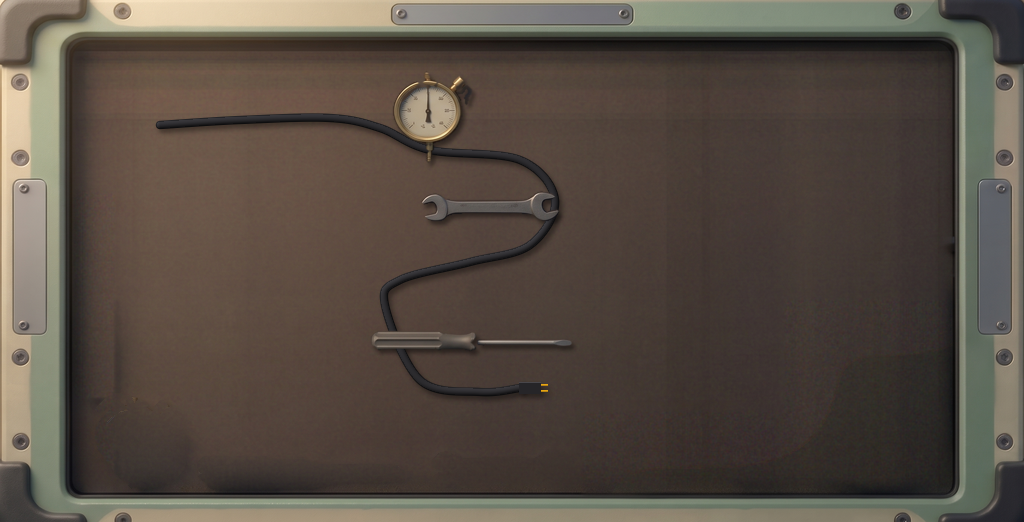
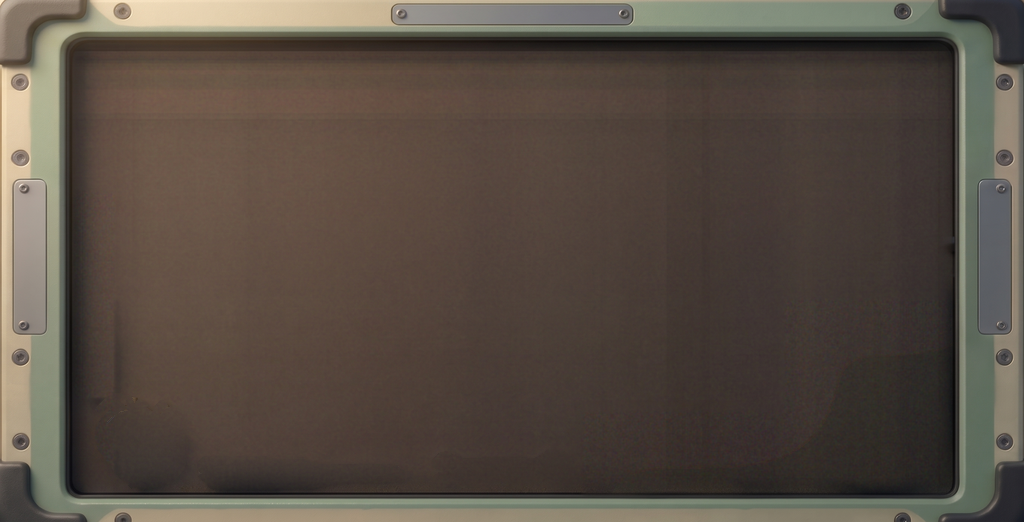
Probe bench masters: the field tools and cable lifted (PA2's own clean stage), the plates and strips at 48 (T-20261016-33)

Changed region(s): [[0.3438, 0.3372, 0.5625, 0.7663], [0.1562, 0.1533, 0.5312, 0.3372]]

diff --git a/art/station-masters/pods/bench/plates-48/make-plates-48.py b/art/station-masters/pods/bench/plates-48/make-plates-48.py
@@ -1,0 +1,71 @@
+"""T-20261016-33 (specs/station-probe-purpose.md §4, work-queue): bench-plate-whole-48x48 and bench-plate-gone-48x48, the signed 32 px plates
+redrawn at 48, not scaled up. By hand in code, no paid call.
+- The silhouette: the 32's alpha, smoothed (bicubic to 12x, a 0.35 px blur at 32, threshold 0.4 (the 32's ink at alpha >= 128)), so each outline is a clean curve; drawn on an 8x
+  supersampled 48 grid and box-reduced, so the edge is anti-aliased at 48's own pixel, not a resampled 32 pixel. The ink grows 1.5x (whole 30x32 ->
+  45x48 in the 48 box), centred as in the 32.
+- The tones are the 32's own, measured (median over each region): whole body (185, 186, 180), its lit top-right edge (216, 217, 210), its shaded
+  left and bottom edges (150, 151, 145) to (96, 97, 92), a soft shade outside down-right (the 32's translucent ring, ground (24, 25, 24) at <= 40 %);
+  gone floor (88, 90, 76), its top and left walls in shade (34, 36, 31), its bottom and right lip lit (122, 124, 104), a dark outline outside
+  (12, 12, 12) at 50 %, the screw hole (46, 48, 48) with a lit lip below right.
+- Rims are drawn at 48's own widths (the whole plate's bevel 1.5 px, the seat's walls 2 px and lip 1 px): crisp, not 1.5x-blurred.
+- Light from the top left, matte (the whole plate's edges keep the 32 painting's own measured edge light, see whole()); nothing added (no screws, marks or gloss the 32s do not have).
+usage: python3 -I make-plates-48.py SLICES_DIR   (reads the two 32s, writes the two 48s into SLICES_DIR)"""
+import sys, os, numpy as np
+from PIL import Image
+from scipy import ndimage as nd
+D = sys.argv[1]; N, SS = 48, 8; G = N * SS                                   # 48 px, 8x supersampled
+def lin(c): c = np.asarray(c, float) / 255; return np.where(c <= .04045, c / 12.92, ((c + .055) / 1.055) ** 2.4)
+def srgb(l): l = np.clip(l, 0, 1); return np.where(l <= .0031308, l * 12.92, 1.055 * l ** (1 / 2.4) - .055) * 255
+def silhouette(name):
+    """the 32's alpha as a smooth curve on the 384 grid (the 48 at 8x): the ink scales 1.5x about the box centre"""
+    a = np.asarray(Image.open(os.path.join(D, name + ".png")).convert("RGBA"))[..., 3].astype(float) / 255
+    a = nd.gaussian_filter(a, 0.35)
+    yy, xx = (np.mgrid[0:G, 0:G] + .5) / G * 32 - .5                     # each 384-grid point in 32-px coordinates
+    return nd.map_coordinates(a, [yy, xx], order=3, mode="constant") > 0.4
+dn = lambda img: img.reshape(N, SS, N, SS, *img.shape[2:]).mean((1, 3))
+L = np.array([-0.55, -0.62, 0.56]); L /= np.linalg.norm(L)
+
+def whole():
+    m = silhouette("bench-plate-whole-32x32")
+    d = nd.distance_transform_edt(m) / SS                                   # px at 48, inside
+    h = np.clip(d / 1.5, 0, 1); h = np.sin(h * np.pi / 2)                  # the plate's 1.5 px rounded bevel
+    gy, gx = np.gradient(nd.gaussian_filter(h, SS * .3)); gx *= SS; gy *= SS
+    n = np.dstack([-gx, -gy, np.ones_like(gx)]); n /= np.linalg.norm(n, axis=2, keepdims=True)
+    LW = np.array([-0.1, -0.8, 0.6]); LW /= np.linalg.norm(LW)               # the 32's own edge light, measured: top and top-right edges lit (213-221),
+    lam = np.clip(n @ LW, 0, 1) / LW[2]                                     # the left edge half (144-178), the bottom dark (86-150); 1 on the flat face
+    body = lin([185, 186, 180]); lit = lin([216, 217, 210]); dark = lin([96, 97, 92])
+    col = np.where((lam >= 1)[..., None], body + (lit - body) * np.clip((lam - 1) / 0.2, 0, 1)[..., None],
+                   dark + (body - dark) * np.clip(lam, 0, 1)[..., None])
+    a = dn(m.astype(float)); c = dn(col * m[..., None]) / np.maximum(a, 1e-6)[..., None]
+    sh = nd.gaussian_filter(nd.shift(m.astype(float), (1.5 * SS, 1.0 * SS), order=0), SS * 0.9)   # the soft shade down-right
+    sa = dn(sh) * 0.40 * (1 - a)
+    return compose(c, a, lin([24, 25, 24]), sa)
+
+def gone():
+    m = silhouette("bench-plate-gone-32x32")
+    yy, xx = (np.mgrid[0:G, 0:G] + .5) / SS
+    def sh(dy, dx): return nd.shift(m, (dy * SS, dx * SS), order=0, cval=False)
+    top_left_wall = m & ~(sh(1, 1) & sh(2, 2))                              # 2 px: the mask minus itself shifted down-right by 1 and 2
+    lip = m & ~sh(-1, -1)                                                   # 1 px: minus itself shifted up-left by 1
+    floor, wall, lipc = lin([88, 90, 76]), lin([34, 36, 31]), lin([122, 124, 104])
+    col = np.broadcast_to(floor, (G, G, 3)).copy()
+    col[lip] = lipc; col[top_left_wall] = wall                              # where they meet, the shadow wins (as the strips' notes)
+    hx, hy = 23.25, 25.5                                                    # the screw hole: the 32's (15.5, 17) x 1.5
+    r = np.hypot(xx - hx, yy - hy)
+    hole_lip = (r <= 2.6) & (r > 1.9) & ((xx - hx) + (yy - hy) > 0.8)
+    col[(r <= 2.0) & m] = lin([46, 48, 48]); col[hole_lip & m] = lin([98, 100, 85])
+    a = dn(m.astype(float)); c = dn(col * m[..., None]) / np.maximum(a, 1e-6)[..., None]
+    ring = nd.binary_dilation(m, iterations=SS) & ~m                         # the dark outline outside, 1 px
+    oa = dn(ring.astype(float)) * 0.50 * (1 - a)
+    return compose(c, a, lin([12, 12, 12]), oa)
+
+def compose(c, a, under, ua):
+    """the plate (premultiplied colour c, coverage a) over its shade or outline (colour under, alpha ua), into straight RGBA"""
+    A = a + ua * (1 - a); C = (c * a[..., None] + under * (ua * (1 - a))[..., None]) / np.maximum(A, 1e-6)[..., None]
+    out = np.dstack([srgb(C), A * 255]); out[A <= 0] = 0
+    return np.clip(np.rint(out), 0, 255).astype(np.uint8)
+
+for name, f in (("bench-plate-whole-48x48", whole), ("bench-plate-gone-48x48", gone)):
+    img = f(); Image.fromarray(img, "RGBA").save(os.path.join(D, name + ".png"))
+    op = img[..., 3] >= 128; ys, xs = np.nonzero(op)
+    print(name, "ink", xs.max() - xs.min() + 1, "x", ys.max() - ys.min() + 1, "at", (xs.min(), ys.min()))

diff --git a/art/station-masters/pods/bench/plates-48/make-plate-strips-48.py b/art/station-masters/pods/bench/plates-48/make-plate-strips-48.py
@@ -1,0 +1,50 @@
+"""T-20261016-33 (specs/station-probe-purpose.md §4, work-queue): bench-plate-strip-t1-176x64 (three recesses) and bench-plate-strip-t2-232x64
+(four), the PA1 strips (bench/make-plate-strips.py, bench/plate-strip-notes.md) at the new size, built the same way. By hand in code, no paid call.
+- Foam: the flat inside of bench-cradle-empty-480x288, crop (106, 122, 232, 61) (Rec.709 luma mean 55.3, std 0.31: the PA1 crop's foam, which
+  is too small for 232 x 61); x 0-175 for t1, all of it for t2. Not tiled, mirrored or stretched.
+- Recess shape: the alpha of bench-plate-gone-48x48 at 128, at (8 + 56 k, 8).
+- As the PA1 notes, in linear light per channel, rounded ties-to-even: body rows 0-60, corner radius 3; row 0 and column 0 x1.30, the last row and
+  column x0.60; in each recess the floor x0.60, the 2 px top and left walls x0.35, the 1 px bottom and right lip x1.35 (the shadow band wins where
+  they meet); the baked contact shadow in rows 61-63 from x 3, ground #1d232b at 45, 30 and 15 %. Nothing else: matte, no label or texture.
+usage: python3 -I make-plate-strips-48.py SLICES_DIR"""
+import sys, os
+import numpy as np
+from PIL import Image
+D = sys.argv[1]; ld = lambda n: np.asarray(Image.open(os.path.join(D, n + ".png")).convert("RGBA"))
+def to_lin(c): c = c / 255.0; return np.where(c <= .04045, c / 12.92, ((c + .055) / 1.055) ** 2.4)
+def to_srgb(l): l = np.clip(l, 0, 1); return np.rint(255 * np.where(l <= .0031308, l * 12.92, 1.055 * l ** (1 / 2.4) - .055)).astype(np.uint8)
+def mul(px, k): return to_srgb(to_lin(px.astype(float)) * k)
+BH, P, PITCH = 61, 48, 56                                                   # body rows, plate size, pitch
+foam_all = ld("bench-cradle-empty-480x288")[122:122 + BH, 106:106 + 232, :3]
+mask = ld("bench-plate-gone-48x48")[..., 3] >= 128
+def shift(m, dy, dx):
+    o = np.zeros_like(m)
+    o[max(dy, 0):m.shape[0] + min(dy, 0), max(dx, 0):m.shape[1] + min(dx, 0)] = m[max(-dy, 0):m.shape[0] + min(-dy, 0), max(-dx, 0):m.shape[1] + min(-dx, 0)]
+    return o
+shadow_band = mask & (~shift(mask, 1, 1) | ~shift(mask, 2, 2))
+light_band = mask & ~shift(mask, -1, -1)
+floor = mask & ~shadow_band & ~light_band
+def strip(w, n):
+    out = np.zeros((BH + 3, w, 4), np.uint8); out[:BH, :, :3] = foam_all[:, :w]; out[:BH, :, 3] = 255
+    rr = np.ones((BH, w), bool)
+    for cy, cx, ys, xs in ((3, 3, slice(0, 3), slice(0, 3)), (3, w - 3, slice(0, 3), slice(w - 3, w)),
+                           (BH - 3, 3, slice(BH - 3, BH), slice(0, 3)), (BH - 3, w - 3, slice(BH - 3, BH), slice(w - 3, w))):
+        yy, xx = np.mgrid[ys, xs]; rr[ys, xs] = np.hypot(xx + .5 - cx, yy + .5 - cy) <= 3
+    k = np.ones((BH, w)); k[0, :] *= 1.30; k[:, 0] *= 1.30; k[BH - 1, :] *= 0.60; k[:, w - 1] *= 0.60
+    out[:BH, :, :3] = mul(out[:BH, :, :3], k[..., None])
+    for i in range(n):
+        x0, y0 = 8 + PITCH * i, 8; sub = out[y0:y0 + P, x0:x0 + P, :3]
+        for m_, kk in ((floor, .60), (shadow_band, .35), (light_band, 1.35)): sub[m_] = mul(sub[m_], kk)
+    out[:BH, :, 3] = np.where(rr, 255, 0); out[:BH, :, :3][~rr] = 0
+    for row, pct in ((BH, .45), (BH + 1, .30), (BH + 2, .15)):
+        out[row, 3:, :3] = (0x1d, 0x23, 0x2b); out[row, 3:, 3] = int(np.rint(255 * pct))
+    return out
+for name, w, n in (("bench-plate-strip-t1-176x64", 176, 3), ("bench-plate-strip-t2-232x64", 232, 4)):
+    a = strip(w, n); assert a.shape[:2] == (64, w)
+    assert set(np.unique(a[:BH, :, 3])) <= {0, 255} and set(np.unique(a[BH:, 3:, 3])) == {115, 76, 38}
+    ys, xs = np.nonzero(mask)
+    for i in range(n):                                                      # each recess sits exactly where the mask says
+        ch = (a[8:8 + P, 8 + PITCH * i:8 + PITCH * i + P, :3] != foam_all[8:8 + P, 8 + PITCH * i:8 + PITCH * i + P]).any(-1)
+        y2, x2 = np.nonzero(ch); assert (y2.min(), y2.max(), x2.min(), x2.max()) == (ys.min(), ys.max(), xs.min(), xs.max()), (name, i)
+    assert 8 + PITCH * (n - 1) + P + 8 == w, name                          # 8 px margins both sides
+    Image.fromarray(a, "RGBA").save(os.path.join(D, name + ".png")); print(name, "ok")

diff --git a/art/station-masters/pods/bench/README.md b/art/station-masters/pods/bench/README.md
@@ -67,3 +67,21 @@ y 440, the switch icons at [152,68] and the slot's plate icons at [200,112]. `sl
 - **Readability at recess 0, 1x (luma 0-255, Rec.709):** the recess floor 42.2. The whole plate (p50 185.1) is +142.9 above it, WCAG contrast 7.3:1: it reads as a whole white plate. The gone plate's lit rim (p95 118.1) is +75.9 above it, 3.15:1: it reads as an outline.
 - **Readings to confirm:** where two listed rules meet on one pixel they apply in the notes' order: the edge's top-right and bottom-left pixels take both multipliers (1.30 then 0.60 or 0.60 then 1.30), and a wall thin enough to be in both bands takes the shadow band. The corner radius 3 clears the one corner pixel whose centre lies outside the circle. Rounding is ties-to-even throughout, the shadow alphas 115, 76 and 38.
 - **A layout fact:** the stage's painted screwdriver ends at about x 265, so t2 (placed from x 240) covers its tip; t1 starts where it ends.
+
+## T-20261016-33: the field tools lifted, the plates and strips at 48 (signed)
+
+The Probe bench's purpose (`specs/station-probe-purpose.md`, work-queue): the player gets the Probe ready for the next trip, and the plates are how many strikes it can take, the second read. The gauge, wrench, screwdriver and cable had no job, so they go. The plates move into the middle column at 48. Nothing new is painted.
+
+| Id | Size | How |
+| --- | --- | --- |
+| `room-bench-stage-probe` | 1024×522 | PA2's own `stage-clean` (`stage-pa2/lift-tools.py` on the pre-PA2 stage, `git show c9261a63^:…/slices/room-bench-stage-probe.png`). Proven exact: `compose-zone.py` over it rebuilds the PA2 stage with 0 pixels differing. The 28,869 changed pixels are the old tools zone, the cable's run and their shadows only |
+| `bench-plate-whole-48x48` | 48×48 | `plates-48/make-plates-48.py`: the signed 32 redrawn at 48 (its silhouette as a smooth curve on an 8× grid, its own measured tones, rims at 48's own widths), not scaled up |
+| `bench-plate-gone-48x48` | 48×48 | the same, the empty seat with its screw hole |
+| `bench-plate-strip-t1-176x64` | 176×64 | `plates-48/make-plate-strips-48.py`: PA1's construction (`plate-strip-notes.md`) at the new size; recesses at (8 + 56k, 8) from the gone-48 mask; foam crop (106, 122, 232, 61) of the cradle, luma 55.3, std 0.31 |
+| `bench-plate-strip-t2-232x64` | 232×64 | the same, four recesses |
+
+The 32 px plates and the 144/192 strips are retired from the bench only (they stay in this folder). `icon-shield-16` is Cargo's and is untouched.
+
+Proofs (`plates-48/proof/`): `before-after-middle-1x.png` (station-gate 69ea1d23 golden `bench`, middle column, before and after; the after has the stage swapped and t1 with three whole plates at the spec places; the words "Shield" and the line are the build's, T-20261016-34), `after-bench-1x.png`, `mock-t2-1x.png`, `strips-2x.png`, `plates-32-vs-48-4x.png` and `stage-before-after-1x.png`.
+
+Signed by the art director at 1× in these mocks, 2026-10-16; to re-check in the builder's captures.
